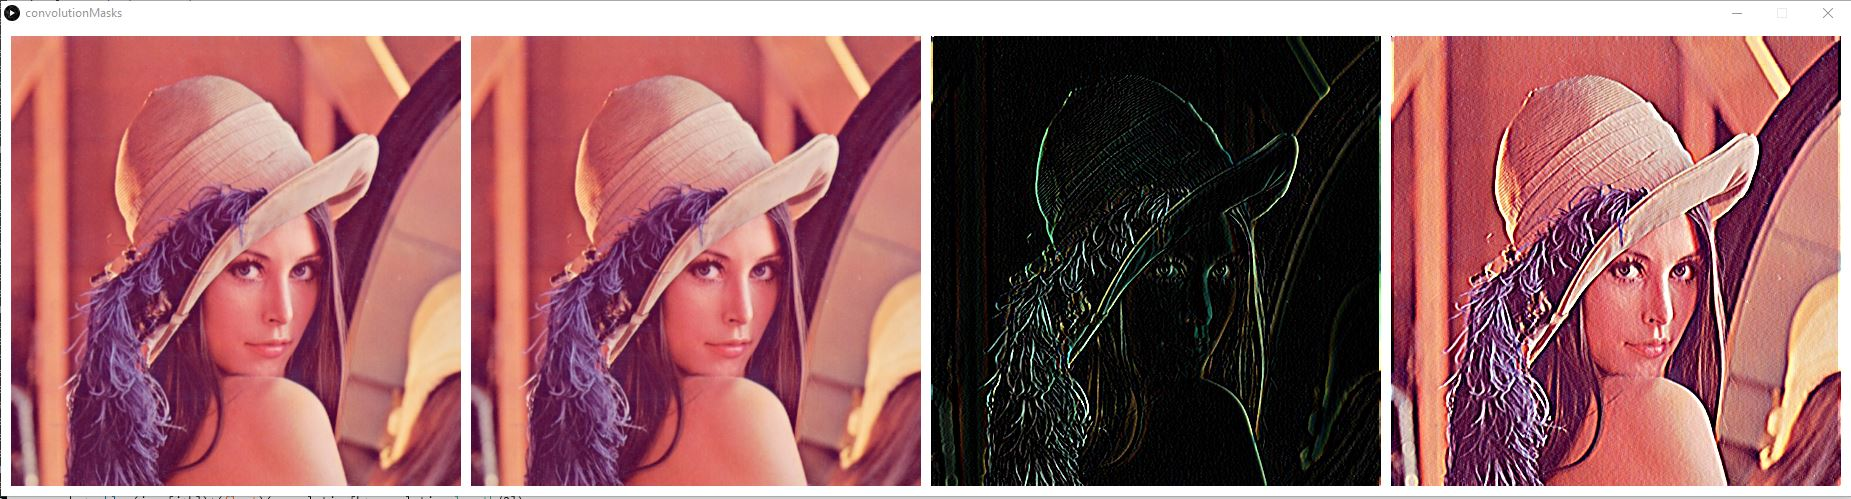
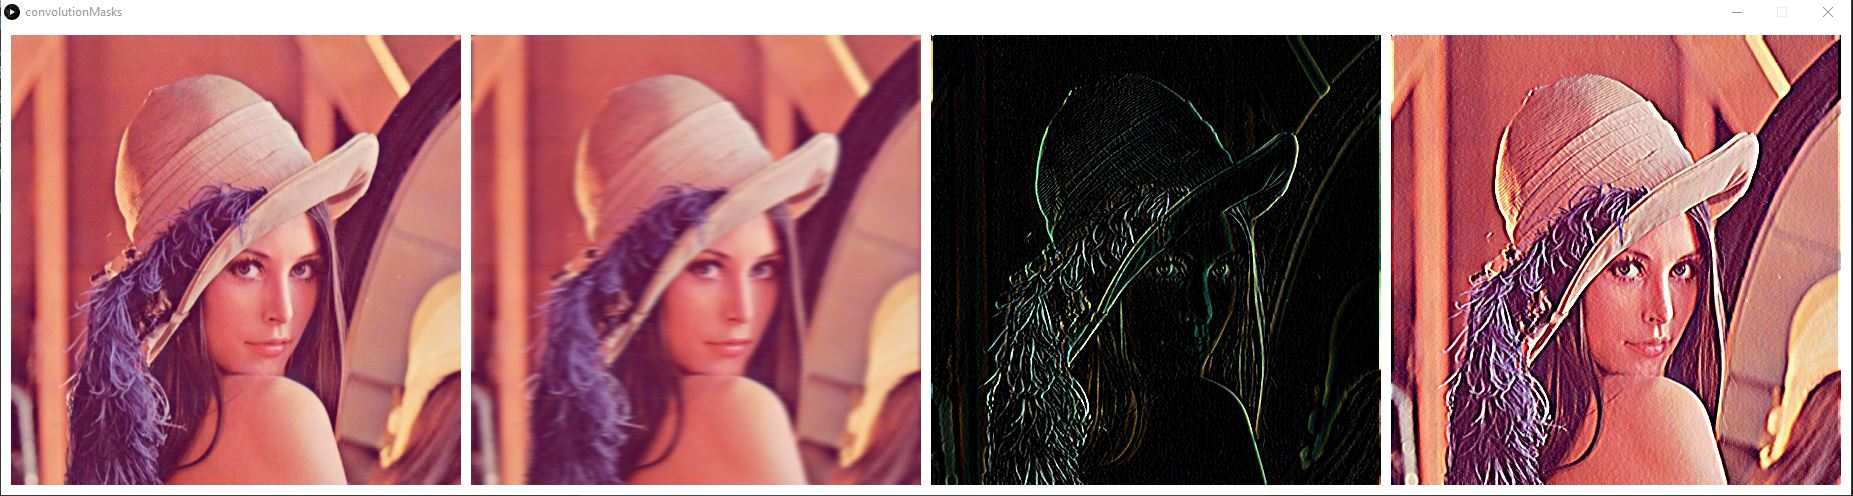
Correcion imagenBlur

diff --git a/README.md b/README.md
@@ -42,18 +42,21 @@ Se  aplican  3 mascaras de convolución recorriendo la imagen pixel a pixel, apl
 
 *Edge detection: Tiene como objetivo la identificación de puntos en una imagen digital en la que el brillo de la imagen cambia drásticamente o, más formalmente tiene discontinuidades, se usaron los siguientes Kernels:
 
+------------
 
 | 1 | 0 | -1|
 |---|---|---|
 | 0 | 0 | 0 |
 | -1 | 0 | 1|
 
+------------
 
 | 0 | -1 | 0 |
 |---|---|---|
 | -1 | 4 | -1 |
 | 0 | -1 | 0|
 
+------------
 
 | -1 | -1 | -1 |
 |---|---|---|
@@ -61,6 +64,8 @@ Se  aplican  3 mascaras de convolución recorriendo la imagen pixel a pixel, apl
 | -1 | -1 | -1|
 
 *Sharpen: Tecnica para aumentar la nitidez aparente de una imagen,se uso el siguiente Kernel:
+
+
 | 0 | -1 | 0 |
 |---|---|---|
 | -1 | 5 | -1 |
@@ -120,21 +125,32 @@ Para la implementacion de ASCII por hardware, se uso como base el siguiente [sha
 
 Se toma un video extrayendo sus frames para poder ser tratados como imagenes independientes, se les aplica el mismo [shader](https://github.com/georgehenryrowe/ShadersForProcessing3/blob/master/data/ascii.glsl) usado para las imagenes, se guardan en un vector del tamaño del video y es este vector el que se dibujara en el canvas.
 
-* **Medir la eficiencia computacional para las operaciones realizadas a los videos**:
+## Medir la eficiencia computacional para las operaciones realizadas a los videos:
 
 
-* **Resultados**:
+## Resultados
 
 **Gray Scale**:
+
+Imagen Original -- Escala de grises con promedio -- Escala de grises con Luma
+
 + ![Gray Scale](/Resultados/out_grey.JPG)
 
-
 **Convolution Masks**:
+
+Imagen Original -- GaussianBlur(3x3) -- EdgeDetection -- Sharpen
+
 + ![Convolution Masks](/Resultados/out_masks.JPG)
 
+**Histrogram**:
++ ![Gray Scale](/Resultados/out_histogram.JPG)
 
-**Ascii**:
+**Ascii Software**:
 + ![Gray Scale](/Resultados/out_ascii_software.JPG)
+
+**Ascii Shaders**:
++ ![Gray Scale](/Resultados/out_ascii_hardware.JPG)
+
 
 
 
